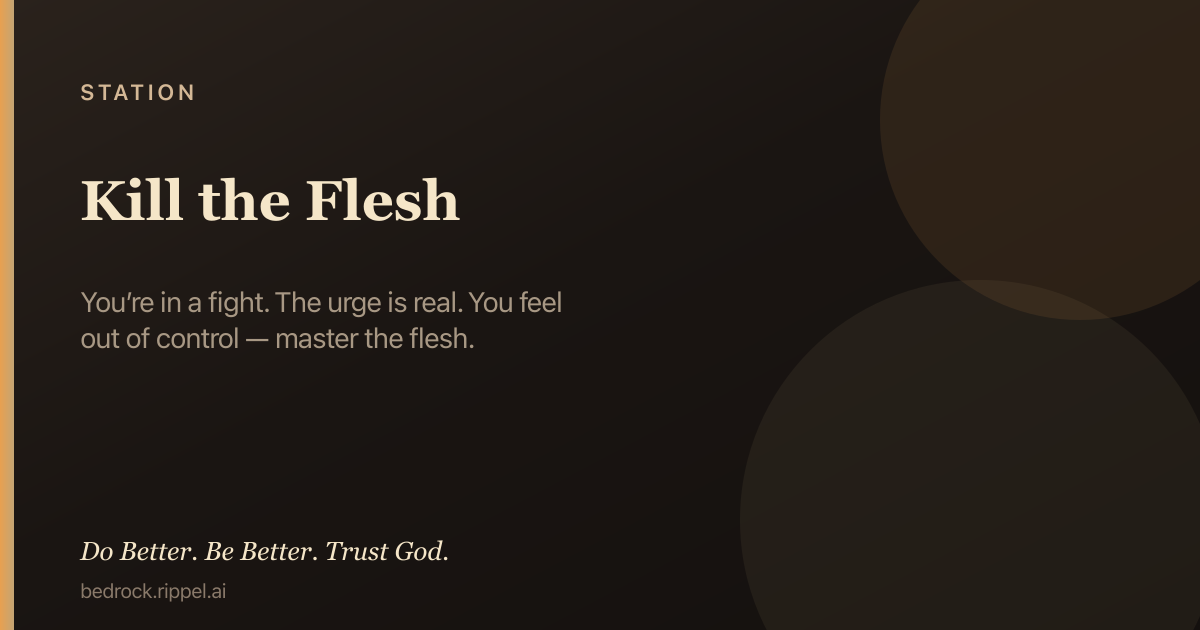
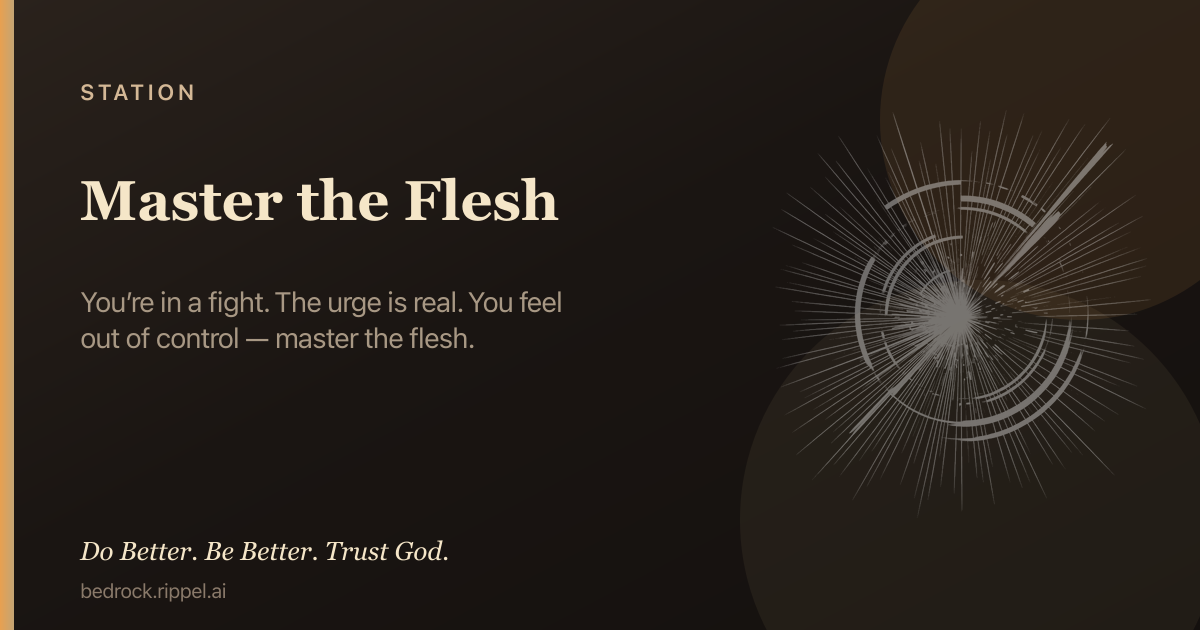
Rename station to Master the Flesh; composite pow on OG hero
Keep id kill-the-flesh for stable share URLs. Standard title unchanged.
OG cards that ship chamber illustration now watermark it on the share PNG.

Changed region(s): [[0.6475, 0.2111, 0.9558, 0.754], [0.0617, 0.2714, 0.4625, 0.3619]]

diff --git a/public/c/kill-the-flesh.html b/public/c/kill-the-flesh.html
@@ -3,7 +3,7 @@
 <head>
   <meta charset="utf-8" />
   <meta name="viewport" content="width=device-width, initial-scale=1" />
-  <title>Kill the Flesh — Bedrock</title>
+  <title>Master the Flesh — Bedrock</title>
   <meta name="description" content="You’re in a fight. The urge is real. You feel out of control — master the flesh. Hold first: Under fire, prayer, then Truth. Do Better. Be Better. Trust…" />
   <meta name="robots" content="index, follow, max-image-preview:large, max-snippet:-1" />
   <meta name="ai-content-declaration" content="human-authored Christian field guide; hold-first: Under fire, Prayer, then Truth" />
@@ -11,7 +11,7 @@
   <link rel="alternate" type="text/markdown" href="https://bedrock.rippel.ai/c/kill-the-flesh.md" title="Markdown" />
   <meta property="og:site_name" content="Bedrock" />
   <meta property="og:type" content="article" />
-  <meta property="og:title" content="Kill the Flesh — Bedrock" />
+  <meta property="og:title" content="Master the Flesh — Bedrock" />
   <meta property="og:description" content="You’re in a fight. The urge is real. You feel out of control — master the flesh. Hold first: Under fire, prayer, then Truth. Do Better. Be Better. Trust…" />
   <meta property="og:url" content="https://bedrock.rippel.ai/c/kill-the-flesh" />
   <meta property="og:image" content="https://bedrock.rippel.ai/og/c/kill-the-flesh.png" />
@@ -19,17 +19,17 @@
   <meta property="og:image:type" content="image/png" />
   <meta property="og:image:width" content="1200" />
   <meta property="og:image:height" content="630" />
-  <meta property="og:image:alt" content="Kill the Flesh — Bedrock" />
+  <meta property="og:image:alt" content="Master the Flesh — Bedrock" />
   <meta name="twitter:card" content="summary_large_image" />
-  <meta name="twitter:title" content="Kill the Flesh — Bedrock" />
+  <meta name="twitter:title" content="Master the Flesh — Bedrock" />
   <meta name="twitter:description" content="You’re in a fight. The urge is real. You feel out of control — master the flesh. Hold first: Under fire, prayer, then Truth. Do Better. Be Better. Trust…" />
   <meta name="twitter:image" content="https://bedrock.rippel.ai/og/c/kill-the-flesh.png" />
-  <meta name="twitter:image:alt" content="Kill the Flesh — Bedrock" />
+  <meta name="twitter:image:alt" content="Master the Flesh — Bedrock" />
   <script type="application/ld+json">
-  {"@context":"https://schema.org","@type":"Article","headline":"Kill the Flesh","description":"You’re in a fight. The urge is real. You feel out of control — master the flesh.","url":"https://bedrock.rippel.ai/c/kill-the-flesh","author":{"@type":"Organization","name":"Bedrock","url":"https://bedrock.rippel.ai"},"publisher":{"@type":"Organization","name":"Bedrock","url":"https://bedrock.rippel.ai"},"image":"https://bedrock.rippel.ai/og/c/kill-the-flesh.png","inLanguage":"en","isPartOf":{"@type":"WebSite","name":"Bedrock","url":"https://bedrock.rippel.ai"},"articleSection":"First principle · Hold first","keywords":"Kill the Flesh, Bedrock, Under fire, prayer, Scripture"}
+  {"@context":"https://schema.org","@type":"Article","headline":"Master the Flesh","description":"You’re in a fight. The urge is real. You feel out of control — master the flesh.","url":"https://bedrock.rippel.ai/c/kill-the-flesh","author":{"@type":"Organization","name":"Bedrock","url":"https://bedrock.rippel.ai"},"publisher":{"@type":"Organization","name":"Bedrock","url":"https://bedrock.rippel.ai"},"image":"https://bedrock.rippel.ai/og/c/kill-the-flesh.png","inLanguage":"en","isPartOf":{"@type":"WebSite","name":"Bedrock","url":"https://bedrock.rippel.ai"},"articleSection":"First principle · Hold first","keywords":"Master the Flesh, Bedrock, Under fire, prayer, Scripture"}
   </script>
   <script type="application/ld+json">
-  {"@context":"https://schema.org","@type":"HowTo","name":"Use Kill the Flesh under fire (Bedrock hold-first)","description":"Open this chamber for the next right hold: Under fire first, then Prayer, then Truth when you can read.","step":[{"@type":"HowToStep","position":1,"name":"Under fire","text":"Fear (the flesh) drives thoughts and actions. Name it. Is it self-less? Does it protect? Does it honor God? If no → stop. Capture it to Christ. Stop. Breathe. Choose the other path."},{"@type":"HowToStep","position":2,"name":"Prayer","text":"Father, this is fear — this is the flesh. I take it captive to Christ. I stop. Amen."},{"@type":"HowToStep","position":3,"name":"Truth","text":"When capacity returns, read the Scripture-rooted body on this page."}],"url":"https://bedrock.rippel.ai/c/kill-the-flesh"}
+  {"@context":"https://schema.org","@type":"HowTo","name":"Use Master the Flesh under fire (Bedrock hold-first)","description":"Open this chamber for the next right hold: Under fire first, then Prayer, then Truth when you can read.","step":[{"@type":"HowToStep","position":1,"name":"Under fire","text":"Fear (the flesh) drives thoughts and actions. Name it. Is it self-less? Does it protect? Does it honor God? If no → stop. Capture it to Christ. Stop. Breathe. Choose the other path."},{"@type":"HowToStep","position":2,"name":"Prayer","text":"Father, this is fear — this is the flesh. I take it captive to Christ. I stop. Amen."},{"@type":"HowToStep","position":3,"name":"Truth","text":"When capacity returns, read the Scripture-rooted body on this page."}],"url":"https://bedrock.rippel.ai/c/kill-the-flesh"}
   </script>
   <script>
 (function(){
@@ -149,7 +149,7 @@
       <img src="/art/kill-the-flesh-pow.png" alt="" width="864" height="1152" loading="eager" />
     </div>
     <p class="kicker">First principle · Bedrock · Hold first</p>
-    <h1>Kill the Flesh</h1>
+    <h1>Master the Flesh</h1>
     <p class="summary">You’re in a fight. The urge is real. You feel out of control — master the flesh.</p>
     <nav class="nav" aria-label="Chamber actions">
       <a class="primary" href="/?c=kill-the-flesh">Open in field guide</a>

diff --git a/public/c/works-of-the-flesh.html b/public/c/works-of-the-flesh.html
@@ -186,7 +186,7 @@
     <nav class="related-web" aria-label="Related first principles" aria-labelledby="related">
       <h3 id="related" class="verses-heading">Connected truth</h3>
       <p class="field-layer-hint">Related chambers — tap to open.</p>
-      <ul class="related-list"><li><a class="related-link" href="/c/kill-the-flesh">Kill the Flesh</a></li>
+      <ul class="related-list"><li><a class="related-link" href="/c/kill-the-flesh">Master the Flesh</a></li>
 <li><a class="related-link" href="/c/kill-the-flesh-walk-in-the-spirit">Kill the Flesh. Walk in the Spirit.</a></li>
 <li><a class="related-link" href="/c/spiritual-warfare">Spiritual Warfare</a></li>
 <li><a class="related-link" href="/c/walk-by-the-spirit">Walk by the Spirit</a></li>

diff --git a/public/c/kill-the-flesh-walk-in-the-spirit.html b/public/c/kill-the-flesh-walk-in-the-spirit.html
@@ -460,7 +460,7 @@
     <nav class="related-web" aria-label="Related first principles" aria-labelledby="related">
       <h3 id="related" class="verses-heading">Connected truth</h3>
       <p class="field-layer-hint">Related chambers — tap to open.</p>
-      <ul class="related-list"><li><a class="related-link" href="/c/kill-the-flesh">Kill the Flesh</a></li>
+      <ul class="related-list"><li><a class="related-link" href="/c/kill-the-flesh">Master the Flesh</a></li>
 <li><a class="related-link" href="/c/walk-by-the-spirit">Walk by the Spirit</a></li>
 <li><a class="related-link" href="/c/works-of-the-flesh">Works of the Flesh</a></li>
 <li><a class="related-link" href="/c/take-every-thought-captive">Take Every Thought Captive</a></li>

diff --git a/src/lib/content-integrity.test.ts b/src/lib/content-integrity.test.ts
@@ -53,7 +53,7 @@ describe('bedrock content integrity', () => {
     expect(rubricText).toMatch(/release this to you|sound mind/)
     // Station form like god-first / jealousy — not a custom SOP layout
     expect(byId.has('kill-the-flesh')).toBe(true)
-    expect(byId.get('kill-the-flesh')!.title).toBe('Kill the Flesh')
+    expect(byId.get('kill-the-flesh')!.title).toBe('Master the Flesh')
     expect(byId.get('kill-the-flesh')!.kind ?? 'chamber').toBe('chamber')
     const killCard = byId.get('kill-the-flesh')!
     expect(killCard.summary.toLowerCase()).toMatch(/you're in a fight|the urge is real|out of control/)

diff --git a/public/c/README.md b/public/c/README.md
@@ -59,7 +59,7 @@ Canonical field-guide pages for crawlers and answer engines.
 - [Wheat and Tares](https://bedrock.rippel.ai/c/wheat-and-tares) — A good farmer sowed wheat; an enemy sowed weeds at night.
 - [Persecution](https://bedrock.rippel.ai/c/persecution) — Blessed when they revile you for His name — stand, bless, do not repay evil.
 - [Works of the Flesh](https://bedrock.rippel.ai/c/works-of-the-flesh) — Those who practice such things will not inherit the kingdom of God.
-- [Kill the Flesh](https://bedrock.rippel.ai/c/kill-the-flesh) — You’re in a fight. The urge is real. You feel out of control — master the flesh.
+- [Master the Flesh](https://bedrock.rippel.ai/c/kill-the-flesh) — You’re in a fight. The urge is real. You feel out of control — master the flesh.
 - [Adultery](https://bedrock.rippel.ai/c/adultery) — Flee sexual immorality. You are not your own.
 - [Pharmakeia](https://bedrock.rippel.ai/c/pharmakeia) — Sorcery — and every counterfeit power — is works of the flesh.
 - [Murder](https://bedrock.rippel.ai/c/murder) — You shall not murder — not by hand, and not by hatred.

diff --git a/public/c/works-of-the-flesh.md b/public/c/works-of-the-flesh.md
@@ -34,7 +34,7 @@ But as for the cowardly, the faithless, the detestable, as for murderers, the se
 
 ## Connected truth
 
-- [Kill the Flesh](https://bedrock.rippel.ai/c/kill-the-flesh)
+- [Master the Flesh](https://bedrock.rippel.ai/c/kill-the-flesh)
 - [Kill the Flesh. Walk in the Spirit.](https://bedrock.rippel.ai/c/kill-the-flesh-walk-in-the-spirit)
 - [Spiritual Warfare](https://bedrock.rippel.ai/c/spiritual-warfare)
 - [Walk by the Spirit](https://bedrock.rippel.ai/c/walk-by-the-spirit)

diff --git a/public/c/kill-the-flesh-walk-in-the-spirit.md b/public/c/kill-the-flesh-walk-in-the-spirit.md
@@ -272,7 +272,7 @@ Do better. Be better. Trust God.
 
 ## Connected truth
 
-- [Kill the Flesh](https://bedrock.rippel.ai/c/kill-the-flesh)
+- [Master the Flesh](https://bedrock.rippel.ai/c/kill-the-flesh)
 - [Walk by the Spirit](https://bedrock.rippel.ai/c/walk-by-the-spirit)
 - [Works of the Flesh](https://bedrock.rippel.ai/c/works-of-the-flesh)
 - [Take Every Thought Captive](https://bedrock.rippel.ai/c/take-every-thought-captive)

diff --git a/public/og/README.md b/public/og/README.md
@@ -8,4 +8,4 @@ Generated on content build for social share.
 - Origin (About): `/og/origin.png`
 - Sealed poem (tall): `/og/testimony-poem.png`
 
-Cards: 109 · ~6163 KB total
+Cards: 109 · ~6254 KB total

diff --git a/public/c/kill-the-flesh.md b/public/c/kill-the-flesh.md
@@ -1,4 +1,4 @@
-# Kill the Flesh
+# Master the Flesh
 
 > You’re in a fight. The urge is real. You feel out of control — master the flesh.
 
